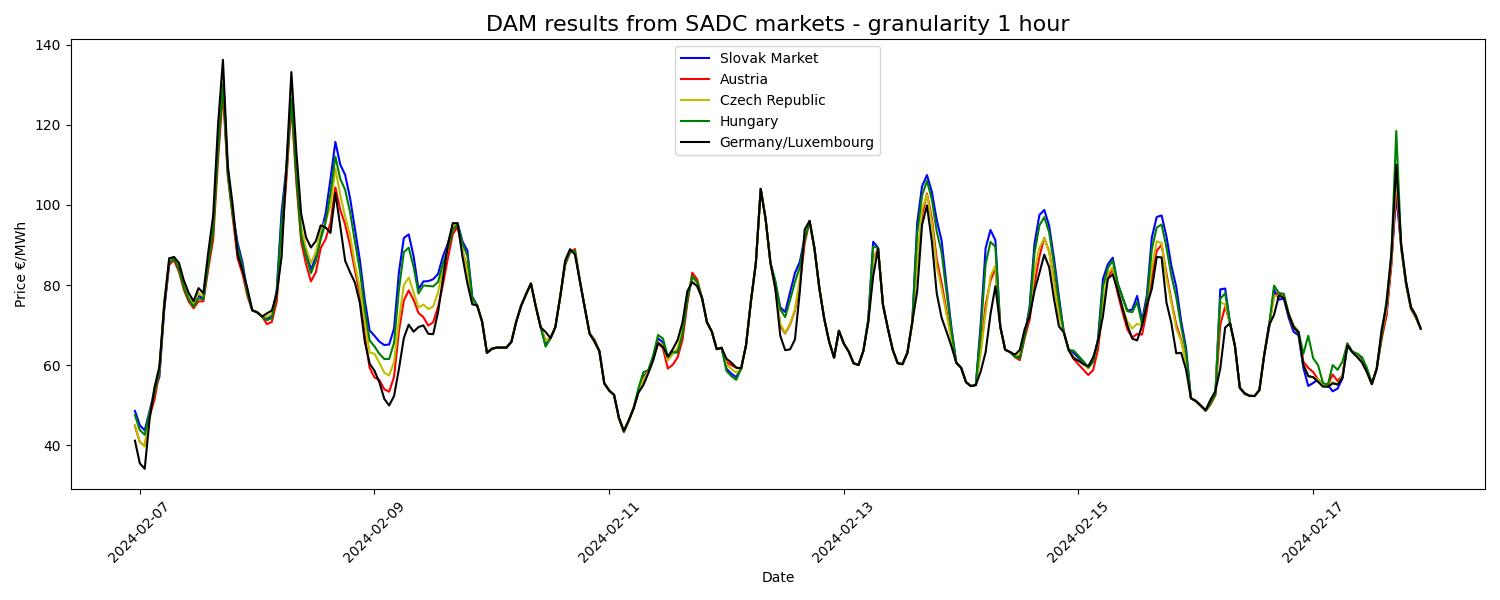
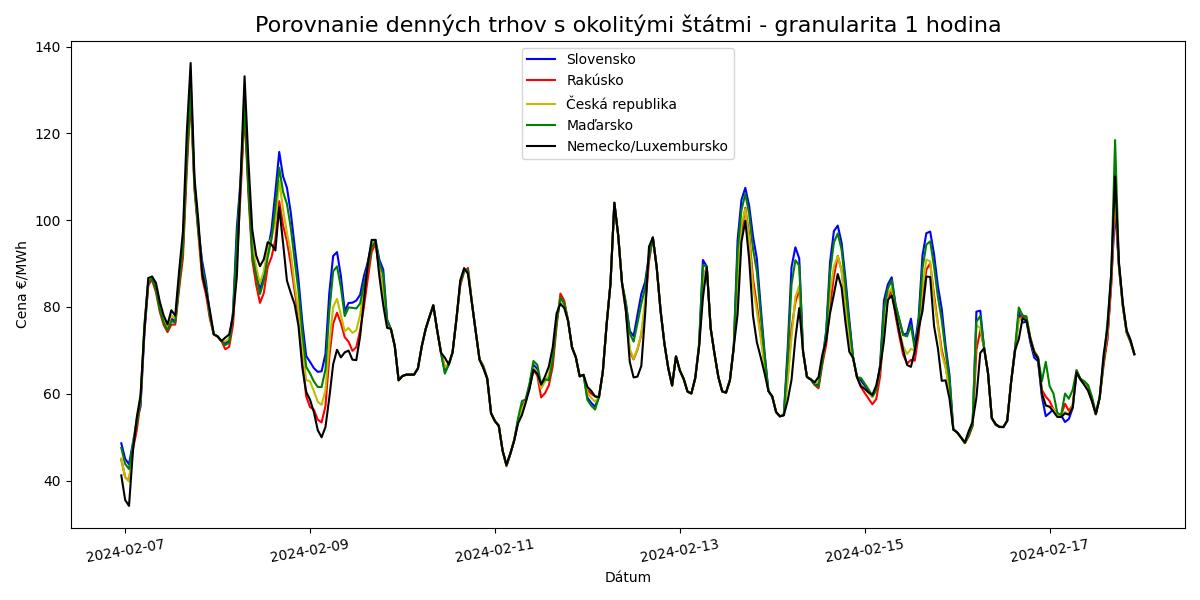
sarima model and gui done, skoro HOTOVO WIII

diff --git a/priceGraphsWeekly.py b/priceGraphsWeekly.py
@@ -50,22 +50,22 @@ def visualize_av_price_in_week(filename):
         """
 
         # Create the plot
-        plt.figure(figsize=(15, 6))
+        plt.figure(figsize=(12, 6))
         plt.plot(df_slovak_market['deliveryStart'], df_slovak_market['price'], linestyle='-', color='b',
-                 label='Slovak Market')
-        plt.plot(data_foreign_market['Date'], data_foreign_market['Austria'], linestyle='-', color='r', label='Austria')
+                 label='Slovensko')
+        plt.plot(data_foreign_market['Date'], data_foreign_market['Austria'], linestyle='-', color='r', label='Rakúsko')
         plt.plot(data_foreign_market['Date'], data_foreign_market['Czech Republic'], linestyle='-', color='y',
-                 label='Czech Republic')
-        plt.plot(data_foreign_market['Date'], data_foreign_market['Hungary'], linestyle='-', color='g', label='Hungary')
+                 label='Česká republika')
+        plt.plot(data_foreign_market['Date'], data_foreign_market['Hungary'], linestyle='-', color='g', label='Maďarsko')
         plt.plot(data_foreign_market['Date'], data_foreign_market['Germany/Luxembourg'], linestyle='-',
-              color='k', label='Germany/Luxembourg')
+              color='k', label='Nemecko/Luxembursko')
 
-        plt.title('DAM results from SADC markets - granularity 1 hour', fontsize = 16)
-        plt.xlabel('Date')
-        plt.ylabel('Price €/MWh')
-        plt.xticks(rotation=45)
+        plt.title('Porovnanie denných trhov s okolitými štátmi - granularita 1 hodina', fontsize = 16)
+        plt.xlabel('Dátum')
+        plt.ylabel('Cena €/MWh')
+        plt.xticks(rotation=10)
         plt.tight_layout()
-        plt.legend()
+        plt.legend(loc='upper center')
         plt.savefig("Graphs/SADC price comparasions (7.7 - 17.7.2023)- CZ,GER,AU,SK,HU.jpg" )
         plt.show()
 
@@ -98,22 +98,22 @@ def visualize_idm_dam():
     #df_dam_december = df_dam[(df_dam['deliveryStart'].dt.month == 12) & (df_dam['deliveryStart'].dt.year == 2023)]
     #df_idm_december = df_idm[(df_idm['deliveryStart'].dt.month == 12) & (df_idm['deliveryStart'].dt.year == 2023)]
 
-    plt.figure(figsize=(20, 6))
+    plt.figure(figsize=(12, 6))
 
     plt.plot(df_idm['deliveryStart'], df_idm['priceWeightedAverage'], linestyle='-', color='blue',
-             label="IDM (60 min) electricity price €/MWh")
+             label="Vnútrodenný trh")
 
     plt.plot(df_dam['deliveryStart'], df_dam['price'], linestyle='-', color='r',
-             label="DAM Electricity price €/MWh")
+             label="Denný trh")
 
-    plt.plot(df_idm_15['deliveryStart'], df_idm_15['priceAverage'], linestyle='-', color='g',alpha=0.2,
-             label="IDM (15 min) electricity price €/MWh")
+    #plt.plot(df_idm_15['deliveryStart'], df_idm_15['priceAverage'], linestyle='-', color='g',alpha=0.2,
+    #         label="IDM (15 min) electricity price €/MWh")
 
 
     plt.xticks(rotation=30)  # Adjust the rotation if needed
-    plt.title("DAM and IDM prices with 60 and 15 minute period of december 2023  - granularity 1 hour", fontsize=20)
-    plt.xlabel("Date", fontsize=12)
-    plt.ylabel("Price €/MWh", fontsize=12)
+    plt.title("Porovnanie cien na dennom a vnútrodennom trhu za december 2023  - granularita 1 hodina", fontsize=16)
+    plt.xlabel("Dátum", fontsize=12)
+    plt.ylabel("Cena €/MWh", fontsize=12)
     plt.legend(fontsize='large')
     plt.tight_layout()
     #plt.savefig("DAM a IDM (60,15 min) porovnanie december 2023")
@@ -235,3 +235,4 @@ def visualize_av_price_in_week_overlay():
 #visualize_av_price_in_week('Data/DAM_results_2024-02-07_2024-02-17.pkl')
 #visualize_av_price_in_week_overlay()
 visualize_idm_dam()
+#visualize_av_price_in_week()

diff --git a/Predictions.py b/Predictions.py
@@ -56,6 +56,66 @@ def SarimaPredikcie(number_of_days_to_predict, market_type):
 
     return predikcie_df
 
+def SARIMAX(number_of_days_to_predict, market_type):
+
+    df_dam = data_preparing(market_type)
+
+    df_dam = preparing_sarimax_data(df_dam)
+
+    print(df_dam.columns)
+    print(df_dam.tail())
+    print(df_dam.head())
+
+    """
+    
+    model = pmd.auto_arima(df_dam['price'], start_p=1, start_q=0, max_p=1, max_q=0,
+                           start_P=2, start_Q=0, max_P=2, max_Q=0, m=24, seasonal=True,
+                           trace=True, stepwise=False, max_time=50,
+                           d=1, D=1, suppress_warnings=True)
+
+
+
+    predikcie_original = model.predict(number_of_days_to_predict)
+
+    predikcie_df = pd.DataFrame({
+        'deliveryEnd': predikcie_original.index,
+        'price': predikcie_original.values
+    })
+
+    predikcie_df['deliveryEnd'] = pd.to_datetime(predikcie_df['deliveryEnd'])
+    predikcie_df['deliveryEnd'] = predikcie_df['deliveryEnd'].dt.strftime('%Y-%m-%d %H:%M')
+    predikcie_df['price'] = predikcie_df['price'].round(2)
+
+    print(predikcie_df)
+
+    plt.figure(figsize=(10, 6))  # Zväčšenie veľkosti grafu
+    plt.plot(predikcie_df['deliveryEnd'], predikcie_df['price'], label='Predikcie', color='blue')
+    if market_type == "IDM":
+        plt.title('Predikcie cien vnutrodenného trhu - model SARIMA')
+    if market_type == "DAM":
+        plt.title('Predikcie cien denného trhu - model SARIMA')
+
+    plt.xlabel('Dátum')
+    plt.ylabel('Cena €/MWh')
+
+    n = 6
+
+    if number_of_days_to_predict <= 48:
+        n = 6
+
+    if number_of_days_to_predict >= 48:
+        n = 15
+
+    if number_of_days_to_predict >= 120:
+        n = 30
+
+    plt.xticks(predikcie_df['deliveryEnd'][::n], rotation=0)
+    plt.legend()
+    plt.savefig("Graphs/SARIMA_from_to")
+    plt.show()
+
+    return predikcie_df
+    """
 
 def SarimaTrainTest(number_of_days_to_predict):
     df_dam = data_preparing_working("DAM")
@@ -90,6 +150,14 @@ def SarimaTrainTest(number_of_days_to_predict):
     # formatted_dates = pd.to_datetime(predikcie_df['deliveryEnd'][::n]).strftime('%Y-%m-%d %H:%M:%S')
     # plt.xticks(predikcie_df['deliveryEnd'][::n], formatted_dates, rotation=20)
 
+
+def preparing_sarimax_data(df):
+    df['previous_year_date'] = df.index - pd.DateOffset(years=1)
+
+    # Pridanie minuloročných cien na základe dátumov
+    df['previous_year_price'] = df['previous_year_date'].map(df['price'].shift(freq='365D'))
+
+    return df
 
 def data_preparing(market_type):
     today = datetime.date.today()
@@ -179,24 +247,7 @@ def data_preparing_working(market_type):
 
     return response_df
 
-def AutoRegressiveModel(number_of_days_to_predict, market_type):
-    df_dam = data_preparing(market_type)
-
-    # Načítanie cien z dát
-    prices = df_dam['price']
-
-    # Definovanie rádu modelu AR
-    order = (2, 1)  # (p, d) - p je počet predchádzajúcich hodnôt, d je stupeň diferenciácie
-
-    # Trénovanie AR modelu
-    model = AutoReg(prices, lags=order[0], seasonal=True, period=24)
-    results = model.fit()
-
-    # Predikcia
-    predikcie_original = results.predict(start=len(prices), end=len(prices) + number_of_days_to_predict - 1,
-                                         dynamic=False)
-
 
 #SarimaPredikcie(24, "IDM")
-
+SARIMAX(7,"DAM")
 

diff --git a/regresie.py b/regresie.py
@@ -137,39 +137,41 @@ def korelacia_denna():
         correlation = hour_data['price'].corr(hour_data['priceWeightedAverage'])
         correlations.append(correlation)
 
+        """
+        plt.figure(figsize=(10, 6))
+        sns.scatterplot(x='price', y='priceWeightedAverage', data=hour_data)
 
-        #plt.figure(figsize=(20, 6))
-        #sns.scatterplot(x='price', y='priceWeightedAverage', data=hour_data)
+        x = hour_data['price']
+        y = hour_data['priceWeightedAverage']
+        fit = np.polyfit(x, y, deg=1)
 
-        #x = hour_data['price']
-        #y = hour_data['priceWeightedAverage']
-        #fit = np.polyfit(x, y, deg=1)
-
-        #plt.plot(x, fit[0] * x + fit[1], color='red', linewidth=1, alpha=0.3)
-        #hodina = hour
-        #plt.title(
-           # f'Correlation graph for DAM price and IDM priceWeightedAverage each period of year 2023 - period {hodina + 1} - granularity 1 hour', fontsize=20)
-        #plt.xlabel('Price DAM €/MWh', fontsize=12)
-        #plt.ylabel('Average price IDM €/MWh',fontsize=12)
-        #plt.grid(True, alpha=0.5)
+        plt.plot(x, fit[0] * x + fit[1], color='red', linewidth=1, alpha=0.3)
+        hodina = hour
+        plt.title(
+            f'Lineárna regresia medzi cenami denného a vnútrodenného trhu pre periódu {hodina + 1} - granularita 1 hodina', fontsize=12.5)
+        plt.xlabel('Cena na dennom trhu €/MWh', fontsize=12)
+        plt.ylabel('Cena na vnútrodennom trhu €/MWh',fontsize=12)
+        plt.grid(True, alpha=0.5)
         #plt.savefig(f"Graphs/Korelacia_DAM_IDM_Hour_{hour}")
-        #plt.show()
+        plt.show()
 
         #print(f"Correlation between DAM price and IDM priceWeightedAverage (Hour {hour}): {correlation}")
         #print(f"Linear Regression Equation for Hour {hour}: IDM_Price = {fit[0]:.4f} * DAM_Price + {fit[1]:.4f}")
+        """
 
     plt.figure(figsize=(10, 6))
     plt.bar(range(1,25), correlations, color='blue')
-    plt.title('Correlation between DAM price and IDM priceWeightedAverage for each period', fontsize=16)
-    plt.xlabel('Hour', fontsize=12)
-    plt.ylabel('Correlation Coefficient', fontsize=12)
+    plt.title('Graf korelácie medzi cenami vnutrúdenného a denného trhu - granularita 1 hodina', fontsize=16)
+    plt.xlabel('Perióda', fontsize=12)
+    plt.ylabel('Koeficient korelácie', fontsize=12)
     plt.xticks(range(1,25))
-    plt.savefig('Graphs/Korelacie bar DAM a IDM kazda perioda')
+    #plt.savefig('Graphs/Korelacie bar DAM a IDM kazda perioda')
     plt.grid(axis='y', alpha=0.5)
     plt.show()
 
+
 # Spustite funkciu pre vytvorenie korelácie a vykreslenie scatter plotu
-#korelacia_denna()
+korelacia_denna()
 
 
 def novaMetoda():

diff --git a/priceGraphsDaily.py b/priceGraphsDaily.py
@@ -84,27 +84,24 @@ def visualize_av_price_in_day_overlay(filename, filename1, filename2, filename3,
         prices_5 = [entry['priceWeightedAverage'] for entry in data5]
         prices_6 = [entry['priceWeightedAverage'] for entry in data6]
 
-
         # Create the plot
-        plt.figure(figsize=(20, 6))
-        plt.plot(prices, linestyle='-', marker=".", color='b', label='5.12.2023')
-        plt.plot(prices_1, linestyle='-', marker=".", color='r', label='6.12.2023')
-        plt.plot(prices_2, linestyle='-', marker=".", color='g', label='7.12.2023')
-        plt.plot(prices_3, linestyle='-', marker=".", color='y', label='8.12.2023')
-        plt.plot(prices_4, linestyle='-', marker=".", color='c', label='9.12.2023')
-        plt.plot(prices_5, linestyle='-', marker=".", color='#FF5733', label='10.12.2023')
-        plt.plot(prices_6, linestyle='-', marker=".", color='purple', label='11.12.2023')
+        plt.figure(figsize=(12, 6))
+        plt.plot(prices, linestyle='-', color='b', label='5.12.2023')
+        plt.plot(prices_1, linestyle='-',  color='r', label='6.12.2023')
+        plt.plot(prices_2, linestyle='-',  color='g', label='7.12.2023')
+        plt.plot(prices_3, linestyle='-',  color='y', label='8.12.2023')
+        plt.plot(prices_4, linestyle='-',  color='c', label='9.12.2023')
+        plt.plot(prices_5, linestyle='-', color='#FF5733', label='10.12.2023')
+        plt.plot(prices_6, linestyle='-', color='purple', label='11.12.2023')
 
-        #days_of_week = ['Monday', 'Tuesday', 'Wednesday', 'Thursday', 'Friday', 'Saturday', 'Sunday']
-        plt.title('Daily price trends from 5.12.2023 to 11.12.2023')
-        plt.xlabel('Period (hour in day)')
-        plt.ylabel('Price €/MWh')
+        plt.title('Vývoj cien na dennom trhu od 5.12.2023 do 11.12.2023 - granularita 1 hodina',fontsize=16)
+        plt.xlabel('Perióda dňa',fontsize=14)
+        plt.ylabel('Cena €/MWh',fontsize=14)
         plt.xticks()
         plt.legend()
-        plt.grid(alpha=0.3, zorder=-1)
+        #plt.grid(alpha=0.3, zorder=-1)
         plt.tight_layout()
         plt.savefig("Graphs/Tyzdnovy graf overlay.png")
-        # Show the plot
         plt.show()
 
     except FileNotFoundError as e:

diff --git a/priceGraphsYearly.py b/priceGraphsYearly.py
@@ -12,12 +12,12 @@ import io
 
 
 def load_and_store_data_okte():
-    api_url = "https://isot.okte.sk/api/v1/dam/results?deliveryDayFrom=2024-01-01&deliveryDayTo=2024-04-12"
+    api_url = "https://isot.okte.sk/api/v1/dam/results?deliveryDayFrom=2023-11-01&deliveryDayTo=2023-12-01"
 
     response = requests.get(api_url)
 
     if response.status_code == 200:
-        filename = "Data/DAM_results_2024-JAN-APR12.pkl"
+        filename = "Data/DAM_results_2023NOV.pkl"
         with open(filename, "wb") as file:
             pickle.dump(response.json(), file)
     else:
@@ -249,7 +249,7 @@ def visualize_av_prices_overlay():
 
 # visualize_av_prices_two_years("IDM_results_2020.pkl", "IDM_results_2021.pkl")
 # visualize_av_prices_overlay("Data/IDM_results_2021.pkl", "Data/Oil_price_2021")
-# load_and_store_data_okte()
+load_and_store_data_okte()
 # prices_from_to("DAM", "2023-12-01", "2024-02-01")
 # data_preparing2("DAM")#, "2023-01-01", "2023-02-01")
 # visualize_av_prices_overlay()
